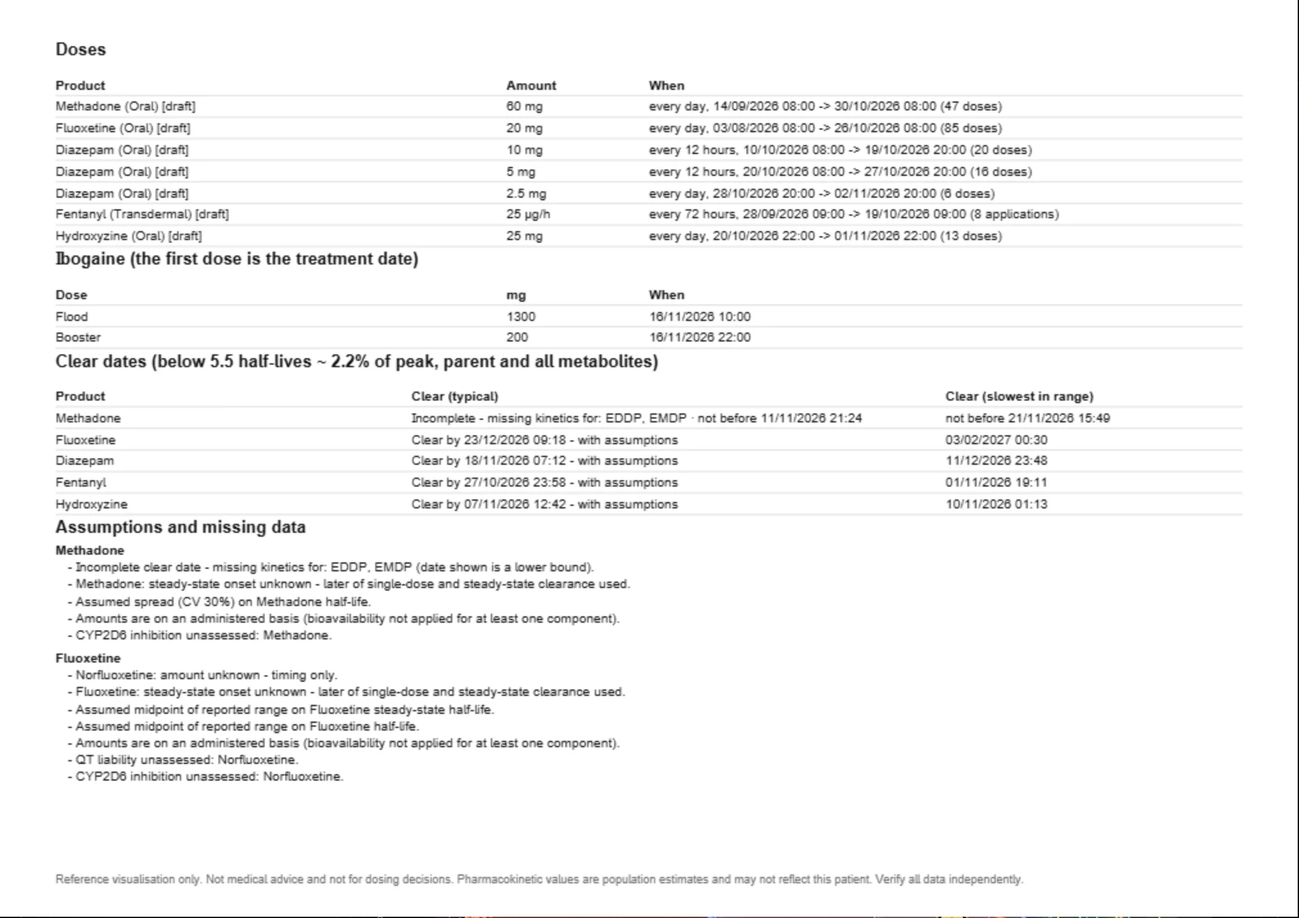
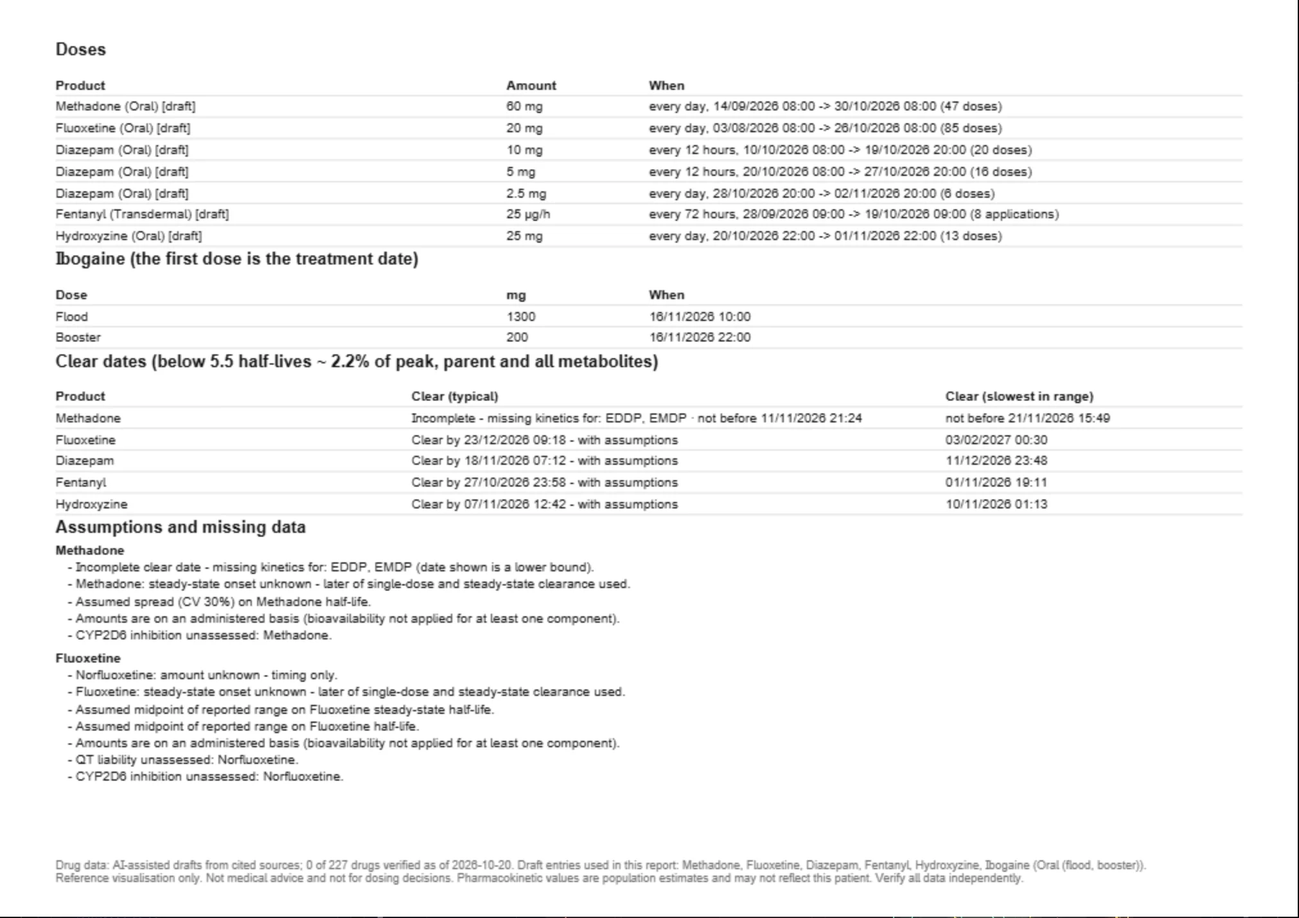
Data-status wording: AI-assisted drafting and hand verification with live counts (help, README, app tooltips and warning); help: Drug Library section and screenshots, header-controls callouts, ibogaine dialog callouts

Changed region(s): [[0.0312, 0.9231, 0.8724, 0.9846]]

diff --git a/help.html b/help.html
@@ -1,4 +1,4 @@
-<!doctype html>
+<!doctype html>
 <html lang="en">
   <head>
     <meta charset="UTF-8" />
@@ -45,7 +45,12 @@
               </ol>
             </li>
             <li><a href="#model">How the model works</a></li>
-            <li><a href="#library">The drug library and its sources</a></li>
+            <li>
+              <a href="#library">The drug library and its sources</a>
+              <ol>
+                <li><a href="#library-view">Browsing the library</a></li>
+              </ol>
+            </li>
             <li><a href="#faq">FAQ</a></li>
             <li><a href="#feedback">Requests and feedback</a></li>
             <li><a href="#about">About</a></li>
@@ -60,6 +65,7 @@
           <h2>What ClearDate is</h2>
           <p>ClearDate is a free reference tool for iboga and ibogaine providers. It supports patient intake and treatment planning.</p>
           <p>You enter a patient's recent medications and substances. ClearDate plots how much of each drug and its metabolites is likely to remain in the body over time, relative to the planned ibogaine date. Underneath the main chart it shows when CYP2D6 is likely to be inhibited, which compounds carry QT liability, and which effects may linger after a drug has cleared.</p>
+          <p>The drug data was drafted with the assistance of AI language models from published, cited sources, and every value records its source. Entries are verified by hand against those sources; until then they are marked <strong>Draft</strong>. You can browse every entry, with its sources, in the <a href="#library-view">Drug Library</a>. See <a href="#library">The drug library and its sources</a>.</p>
           <figure class="shot" data-img="chart-overview.webp">
             <div class="shot-frame"><img src="help/img/chart-overview.webp" alt="The ClearDate window with a fictional patient loaded: the Doses panel on the left, a legend of drugs grouped by category across the top, clearance curves for methadone, fluoxetine, diazepam, a fentanyl patch and hydroxyzine in the main chart, the gold ibogaine treatment marker, the CYP2D6, QT and lingering-effects tracks underneath, and warnings at the bottom." /></div>
             <figcaption>The main screen with a fictional patient. Doses are entered on the left; the chart, tracks and warnings are on the right.</figcaption>
@@ -143,13 +149,14 @@
             <li>
               <strong>Export a record.</strong> <em>PDF</em> creates a report with the chart, the doses, the clear dates, every assumption and the warnings. <em>PNG</em> saves an image of the chart.
               <figure class="shot inline" data-img="header-controls.webp">
-                <div class="shot-frame"><img src="help/img/header-controls.webp" alt="The buttons at the top right of ClearDate: Ibogaine, Reset view, PNG, PDF, Save file, Load file and Help." /></div>
+                <div class="shot-frame"><img src="help/img/header-controls.webp" alt="The buttons at the top right of ClearDate: Ibogaine, Reset view, PNG, PDF, Save file, Load file, Library and Help." /></div>
                 <figcaption>The controls at the top of the app.</figcaption>
                 <ol class="callout-list">
                   <li>Plan the ibogaine treatment.</li>
                   <li>Reset the chart's zoom.</li>
                   <li>Export the chart as an image, or a full PDF report.</li>
                   <li>Save the patient to a file, or open a saved file.</li>
+                  <li>Browse the <a href="#library-view">Drug Library</a>.</li>
                   <li>This help page.</li>
                 </ol>
               </figure>
@@ -202,8 +209,8 @@
             <table class="data-table">
               <thead><tr><th scope="col">Badge</th><th scope="col">Meaning</th></tr></thead>
               <tbody>
-                <tr><td><span class="badge badge-warn">unverified</span></td><td>Library data that has not been fully reviewed yet.</td></tr>
-                <tr><td><span class="badge badge-warn">draft</span></td><td>The entry still contains values marked as drafts.</td></tr>
+                <tr><td><span class="badge badge-warn">unverified</span></td><td>Library data that has not yet been verified by hand against its sources.</td></tr>
+                <tr><td><span class="badge badge-warn">draft</span></td><td>The entry still has AI-assisted values from model recall or estimates that haven't been checked against a source.</td></tr>
                 <tr><td><span class="badge badge-muted">no data yet</span></td><td>The drug is in the library but has no half-life yet. It is listed so you know it's coming, but can't be selected.</td></tr>
                 <tr><td><span class="badge badge-warn">incomplete</span></td><td>The drug can be plotted, but some compound it forms has no kinetics yet. Its clear date will be a lower bound.</td></tr>
                 <tr><td><span class="badge badge-user">user-entered</span></td><td>A custom drug you entered yourself. It is not part of the shared library.</td></tr>
@@ -304,16 +311,16 @@
               <li><em>+ Add dose</em> adds the next dose after the last one: a flood 3 hours after a test dose, a booster 12 hours after a flood or booster, the next microdose a day later.</li>
               <li><strong>mg/kg</strong> is shown in gold under each amount when the patient's weight is set.</li>
               <li><strong>Projected ibogaine and noribogaine</strong> are plotted forward from the doses once the library has their kinetics. Until then only the date markers are shown, and a note says so. If CYP2D6 is likely inhibited at the treatment time, the projection uses the poor-metaboliser values and is labelled “poor-metaboliser adjusted”. If the library has no poor-metaboliser values for ibogaine, it is labelled “poor-metaboliser effect not quantified” instead (see <a href="#cyp2d6">CYP2D6 track</a>).</li>
-              <li><em>Remove all ibogaine doses</em> clears the treatment.</li>
+              <li>The sidebar lists every ibogaine dose in time order. <em>Remove all ibogaine doses</em> clears the treatment.</li>
             </ul>
             <figure class="shot narrow" data-img="ibogaine-form.webp">
               <div class="shot-frame"><img src="help/img/ibogaine-form.webp" alt="The Ibogaine dialog: an explanation, a 1300 mg flood with its mg/kg value and time, a 200 mg booster 12 hours later, each with a Repeat checkbox, an Add dose button, and Remove all ibogaine doses and Save buttons." /></div>
               <figcaption>The Ibogaine dialog.</figcaption>
               <ol class="callout-list">
-                <li>Flood dose in mg.</li>
+                <li>Dose type (test dose, flood, booster, microdose or other).</li>
                 <li>mg/kg, from the patient's weight.</li>
-                <li>Booster time.</li>
-                <li>Add another booster.</li>
+                <li>Repeat a dose, for example for microdosing.</li>
+                <li>Add another dose.</li>
               </ol>
             </figure>
           </section>
@@ -441,7 +448,7 @@
             <p>Below the chart, <strong>Receptor overlap at the ibogaine date</strong> lists receptors and transporters hit by compounds from two or more different products still present at the treatment date, with each compound's action.</p>
             <p>Both are qualitative reminders taken from the literature, not modelled effects.</p>
             <figure class="shot" data-img="warnings.webp">
-              <div class="shot-frame"><img src="help/img/warnings.webp" alt="The warnings area under the chart, listing amber warnings for incomplete clear dates and unassessed CYP2D6 inhibition, and blue information notes about unverified data." /></div>
+              <div class="shot-frame"><img src="help/img/warnings.webp" alt="The warnings area under the chart, listing amber warnings for incomplete clear dates and unassessed CYP2D6 inhibition, and blue information notes about draft library data." /></div>
               <figcaption>Warnings under the chart. Red is a safety warning, amber needs attention, blue is information about the data.</figcaption>
             </figure>
           </section>
@@ -516,7 +523,7 @@
             <ul>
               <li><strong>Save file</strong> downloads the whole session (patient, doses, ibogaine plan, custom drugs and settings) as <code>name-date.cleardate.json</code>.</li>
               <li><strong>Load file</strong> opens a saved file and replaces what's on screen. If a custom drug in the file has the same ID as a library drug, it is renamed and you're told.</li>
-              <li><strong>PDF</strong> creates a landscape A4 report in light colours. Page 1 has the clinic name, patient details, baseline QTc, CYP2D6 phenotype and the chart as currently zoomed. The following pages list the doses, the planned ibogaine, the clear dates (typical and slowest in the range), the <strong>Assumptions and missing data</strong> for each product, and the warnings. The disclaimer is printed at the foot of every page.</li>
+              <li><strong>PDF</strong> creates a landscape A4 report in light colours. Page 1 has the clinic name, patient details, baseline QTc, CYP2D6 phenotype and the chart as currently zoomed. The following pages list the doses, the planned ibogaine, the clear dates (typical and slowest in the range), the <strong>Assumptions and missing data</strong> for each product, and the warnings. The foot of every page has the disclaimer and a data line: how many library drugs are verified, and which drugs in this report are still drafts.</li>
               <li><strong>PNG</strong> saves an image with the same header, the chart and up to eight warnings.</li>
             </ul>
             <p><strong>Assumptions and missing data</strong> lists, per product: incomplete clear dates and the missing compounds; every assumption (assumed spreads and range midpoints, assumed phenotype effects, steady-state switches, conservative choices for partial data); metabolites excluded as inactive; branches not formed for the patient's phenotype; formation-limited conjugates, which can accumulate in renal impairment; amounts given on an administered basis; and whether QT, CYP2D6 or receptor data is unassessed.</p>
@@ -620,13 +627,15 @@
         <!-- 7 -->
         <section id="library">
           <h2>The drug library and its sources</h2>
-          <p>Drug values are entered by hand from published sources, with the citations recorded in the library. In a <strong>verified</strong> entry, every section has been reviewed against those sources. Entries still being reviewed are marked <span class="badge badge-warn">unverified</span> or <span class="badge badge-warn">draft</span> wherever they appear, including the PDF.</p>
+          <p data-fig="statement">Drug data was drafted with the assistance of AI language models from published, cited sources (FDA labels, Baselt, CredibleMeds, the Flockhart table, CPIC, the IUPHAR/BPS Guide to Pharmacology and the primary literature). Every value records its source. Entries are reviewed and verified by hand against those sources; entries marked Draft have not yet been verified. The library will keep growing.</p>
+          <p>In a <strong>verified</strong> entry, every section has been checked by hand against its sources. Entries not yet verified are marked <span class="badge badge-warn">draft</span> or <span class="badge badge-warn">unverified</span> in the drug search, <strong>Draft</strong> in the <a href="#library-view">Drug Library</a>, and are named in the data line at the foot of the PDF.</p>
+          <p class="live" hidden>Verification so far: <strong data-fig="drugsVerified"></strong> of <strong data-fig="drugs"></strong> drugs verified, <strong data-fig="drugsDraft"></strong> drafts, and <strong data-fig="drugsNoData"></strong> with no data yet. <strong data-fig="drugsIncomplete"></strong> drugs have incomplete data (a compound they form has no kinetics yet).</p>
           <p>Primary sources:</p>
           <ul class="sources">
             <li>FDA prescribing information via <a href="https://dailymed.nlm.nih.gov/">DailyMed</a>, and EU and UK product information (<a href="https://www.ema.europa.eu/">EMA</a>, <a href="https://www.medicines.org.uk/emc">electronic medicines compendium</a>).</li>
             <li>Baselt, <em>Disposition of Toxic Drugs and Chemicals in Man</em>.</li>
             <li>The <a href="https://drug-interactions.medicine.iu.edu/">Flockhart CYP table</a> and the <a href="https://www.fda.gov/drugs/drug-interactions-labeling/healthcare-professionals-fdas-examples-drugs-interact-cyp-enzymes-and-transporter-systems">FDA drug-interaction tables</a>.</li>
-            <li><a href="https://crediblemeds.org/">CredibleMeds</a> for QT risk tiers, entered by hand with a citation and used under their terms.</li>
+            <li><a href="https://crediblemeds.org/">CredibleMeds</a> for QT risk tiers, recorded with a citation and used under their terms.</li>
             <li><a href="https://cpicpgx.org/">CPIC</a> and <a href="https://www.clinpgx.org/">ClinPGx</a> for pharmacogenomics.</li>
             <li>The <a href="https://www.guidetopharmacology.org/">IUPHAR/BPS Guide to Pharmacology</a> and the <a href="https://pdsp.unc.edu/databases/kidb.php">PDSP K<sub>i</sub> Database</a> for receptor targets.</li>
             <li>The primary pharmacokinetic literature via <a href="https://pubmed.ncbi.nlm.nih.gov/">PubMed</a>.</li>
@@ -637,6 +646,57 @@
           <p class="live" hidden>The library currently holds <strong data-fig="drugs"></strong> drugs as <strong data-fig="products"></strong> products (each route and formulation is a product), made up of <strong data-fig="compounds"></strong> compounds including metabolites. <strong data-fig="verifiedProducts"></strong> products and <strong data-fig="verifiedCompounds"></strong> compounds are verified so far. Last updated <strong data-fig="updated"></strong>.</p>
           <p>Categories covered: <span data-fig="categories">opioids and opioid use disorder treatments; benzodiazepines and sedatives; antidepressants; antipsychotics; mood stabilisers and anticonvulsants; stimulants; psychedelics, entactogens and dissociatives; cardiovascular drugs; antimicrobials, antiemetics and other interactors</span>.</p>
           <p><strong>The library will keep growing.</strong> Requests for new drugs, corrections and source suggestions are welcome: see <a href="#feedback">Requests and feedback</a>.</p>
+
+          <h3 id="library-view">Browsing the library</h3>
+          <p>Press <em>Library</em> at the top of the app to open the Drug Library: a read-only view of every drug, its metabolites and its sources. Nothing in it changes your patient, and closing it (× or Esc) returns you to the chart exactly as it was.</p>
+          <ul>
+            <li>Each drug has its own address (for example <code>#library/fluoxetine</code>), so you can bookmark or share an entry. The browser's back and forward buttons move between the entries you've opened.</li>
+            <li>Keyboard: <kbd>/</kbd> jumps to the search box, <kbd>↑</kbd> <kbd>↓</kbd> move through the list, <kbd>Enter</kbd> opens a drug.</li>
+            <li>On a narrow screen the list comes first; opening a drug replaces it, with <em>← All drugs</em> to go back.</li>
+          </ul>
+          <figure class="shot" data-img="library-overview.webp">
+            <div class="shot-frame"><img src="help/img/library-overview.webp" alt="The Drug Library: a search box, category and status filter chips and a Show metabolites checkbox above a list of drugs grouped by category, each with a coloured status dot; on the right, a summary of the library with the data statement and counts of drugs, compounds, products, verified, draft, incomplete and no-data entries." /></div>
+            <figcaption>The Drug Library. The list is on the left; with no drug selected, the right side summarises the library.</figcaption>
+            <ol class="callout-list">
+              <li>Search by name, brand or alias, using the same search as the Doses panel.</li>
+              <li>Filter by category. You can select more than one.</li>
+              <li>Filter by status: Verified, Draft, Incomplete data, No data yet.</li>
+              <li>Also list metabolites, which have entries of their own.</li>
+              <li>Status dot: green for verified (a green ring for verified with incomplete data), amber for draft, an empty circle for no data yet.</li>
+              <li>Live counts from the library.</li>
+            </ol>
+          </figure>
+          <p>A drug's entry shows, in order: its status; <strong>at a glance</strong>, the clear time after a single dose; its products; the kinetics of the drug and each metabolite; the metabolite tree; safety (CYP2D6, QT, lingering effects, nonlinear kinetics); receptors; and the sources. Unknown values are shown as <em>unknown</em> or <em>unassessed</em>, never left blank.</p>
+          <figure class="shot" data-img="library-entry.webp">
+            <div class="shot-frame"><img src="help/img/library-entry.webp" alt="The top of the fluoxetine entry: its name and aliases, the Draft status, an at-a-glance sentence giving the typical clear time after a single dose with its range, product cards for the oral and weekly delayed-release products, and the fluoxetine half-life shown as a range bar." /></div>
+            <figcaption>The top of a drug's entry.</figcaption>
+            <ol class="callout-list">
+              <li>Status: Verified (with its date), Verified — incomplete data, Draft, or No data yet.</li>
+              <li>At a glance: the same simulation as the chart, for one dose of the main product in a normal CYP2D6 metaboliser, using your current clear threshold. Incomplete drugs say “not before” and name the compound without kinetics.</li>
+              <li>Each product: route, formulation, input model and typical dose. “Not set” or “not applied” means the library has no value.</li>
+              <li>Half-life range: the band runs from the fastest to the slowest value, the gold tick is the typical value, and the label says how the range was derived. A striped band is an assumed spread around a single published value.</li>
+            </ol>
+          </figure>
+          <figure class="shot" data-img="library-tree.webp">
+            <div class="shot-frame"><img src="help/img/library-tree.webp" alt="The metabolite tree for codeine: codeine on the left, outlined in gold, linked to its metabolites, each box showing whether it is active and its half-life, with the fraction formed on each link." /></div>
+            <figcaption>The metabolite tree.</figcaption>
+            <ol class="callout-list">
+              <li>The drug itself, outlined in gold.</li>
+              <li>A metabolite. Select it to open its own entry. Blue outline: active; grey: inactive; dashed amber: relevance unknown.</li>
+              <li>The fraction formed, and any CYP2D6 phenotype multipliers, on each link.</li>
+            </ol>
+          </figure>
+          <figure class="shot" data-img="library-sources.webp">
+            <div class="shot-frame"><img src="help/img/library-sources.webp" alt="The sources of one entry: each section with its cited sources as links and a small coloured provenance dot, an open Show evidence notes panel with the raw notes, and a legend explaining the dots." /></div>
+            <figcaption>Sources, with the evidence notes open.</figcaption>
+            <ol class="callout-list">
+              <li>The sources cited for each section, as links where there is one.</li>
+              <li>Provenance (draft entries only): whether the value was checked against its source, came from model recall, is an estimate, or no data was found. Verified entries don't show these.</li>
+              <li><em>Show evidence notes</em> reveals the full notes, word for word.</li>
+              <li>What each dot means.</li>
+            </ol>
+          </figure>
+          <p>At the bottom of each entry, <em>Report a correction</em> opens a pre-filled issue on the project's GitHub page (you'll need a GitHub account). Choose the section first. You can also email a correction: see <a href="#feedback">Requests and feedback</a>.</p>
         </section>
 
         <!-- 8 -->
@@ -663,8 +723,12 @@
             <dd>The entry has been fully reviewed, and the missing kinetics are confirmed as unpublished. Its clear dates are lower bounds, and a library update won't change that until new research is published.</dd>
             <dt>Will closing the browser lose my patient?</dt>
             <dd>No: the session is autosaved in this browser and is there next time. It is lost only if you use Clear all data or clear the browser's site data. Save a file for a permanent copy.</dd>
+            <dt>Where does the drug data come from?</dt>
+            <dd>It was drafted with the assistance of AI language models from published, cited sources, and every value records its source. Entries are verified by hand against those sources; until then they are marked Draft. Open any drug in the <a href="#library-view">Drug Library</a> to see its sources. See <a href="#library">The drug library and its sources</a>.</dd>
+            <dt>Can I trust a Draft entry?</dt>
+            <dd>Treat it as unchecked. Its values have sources, but nobody has yet confirmed them against those sources. Each section in the Library shows whether it was checked, came from model recall, or is an estimate. Verify anything that matters to your decision.</dd>
             <dt>How do I correct an entry?</dt>
-            <dd>Email the drug, the value you think is wrong and a source. See <a href="#feedback">Requests and feedback</a>.</dd>
+            <dd>Open the drug in the <a href="#library-view">Drug Library</a> and use <em>Report a correction</em> at the bottom (needs a GitHub account), or email the drug, the value you think is wrong and a source. See <a href="#feedback">Requests and feedback</a>.</dd>
           </dl>
         </section>
 

diff --git a/tools/screenshots.ts b/tools/screenshots.ts
@@ -170,13 +170,16 @@ async function main() {
 
     const topbar = page.locator('.topbar');
     await shot(page, 'saved-indicator', pad(union(await box(page.locator('.wordmark')), await box(page.locator('.saved'))), 12));
-    const headerButtons = union(await box(page.locator('.topbar .btn-gold')), await box(page.locator('.topbar a.btn')));
+    const libraryBtn = topbar.getByRole('link', { name: 'Library' });
+    const helpBtn = topbar.getByRole('link', { name: 'Help' });
+    const headerButtons = union(await box(page.locator('.topbar .btn-gold')), await box(helpBtn));
     await shot(page, 'header-controls', pad(headerButtons, 10), [
       corner(await box(page.locator('.topbar .btn-gold'))),
       corner(await box(topbar.getByRole('button', { name: 'Reset view' }))),
       corner(union(await box(topbar.getByRole('button', { name: 'PNG' })), await box(topbar.getByRole('button', { name: 'PDF' })))),
       corner(union(await box(topbar.getByRole('button', { name: 'Save file' })), await box(topbar.getByRole('button', { name: 'Load file' })))),
-      corner(await box(page.locator('.topbar a.btn'))),
+      corner(await box(libraryBtn)),
+      corner(await box(helpBtn)),
     ]);
 
     console.log('Chart');
@@ -354,6 +357,67 @@ async function main() {
     await shot(page, 'wizard-metabolites', pad(await box(modal), 2));
     await modal.locator('.modal-head .icon-btn').click();
     await settle(page, 200);
+
+    console.log('Drug library');
+    await libraryBtn.click();
+    const lib = page.locator('.lib-overlay');
+    await lib.waitFor();
+    await settle(page, 400);
+    await shot(page, 'library-overview', null, [
+      corner(await box(lib.locator('.lib-search'))),
+      corner(await box(lib.locator('.lib-chips').first())),
+      corner(await box(lib.locator('.lib-chips').nth(1))),
+      corner(await box(lib.locator('.lib-toggle'))),
+      left(await box(lib.locator('a.lib-row .lib-st').first()), -2),
+      corner(await box(lib.locator('.lib-stats').first())),
+    ]);
+
+    await lib.locator('.lib-search').fill('fluoxetine');
+    await settle(page, 250);
+    await lib.locator('.lib-search').press('Enter');
+    await page.waitForFunction(() => location.hash === '#library/fluoxetine');
+    await settle(page, 300);
+    const detail = lib.locator('.lib-detail');
+    const libSection = (title: string) => detail.locator('.lib-sec').filter({ has: page.locator('h3', { hasText: new RegExp(`^${title}$`) }) });
+    const kinetics = libSection('Kinetics');
+    await shot(page, 'library-entry', union(await box(detail.locator('.lib-entry-head')), await box(kinetics.locator('.lib-card').first())), [
+      corner(await box(detail.locator('.lib-entry-head .lib-status'))),
+      await textEnd(detail.locator('.lib-glance')),
+      corner(await box(detail.locator('.lib-cards .lib-card').first())),
+      corner(await box(kinetics.locator('.lib-bar').first())),
+    ]);
+
+    await lib.locator('.lib-search').fill('codeine');
+    await settle(page, 250);
+    await lib.locator('.lib-search').press('Enter');
+    await page.waitForFunction(() => location.hash === '#library/codeine');
+    await settle(page, 300);
+    const treeSec = libSection('Metabolites');
+    await treeSec.scrollIntoViewIfNeeded();
+    await settle(page, 200);
+    await shot(page, 'library-tree', pad(await box(treeSec), 6), [
+      corner(await box(treeSec.locator('.lib-node.self rect'))),
+      corner(await box(treeSec.locator('.lib-node').nth(1).locator('rect'))),
+      await textEnd(treeSec.locator('.lib-edge-label').first()),
+    ]);
+
+    const srcSec = libSection('Sources');
+    const firstSrc = srcSec.locator('details.lib-src[open]').nth(1);
+    await firstSrc.locator('.lib-raw summary').click();
+    await page.setViewportSize({ width: 1440, height: 1700 });
+    await settle(page, 200);
+    await firstSrc.evaluate((el) => el.scrollIntoView({ block: 'start' }));
+    await settle(page, 200);
+    await shot(page, 'library-sources', pad(union(await box(firstSrc), await box(srcSec.locator('.lib-legend'))), 6), [
+      corner(await box(firstSrc.locator('.lib-cites').first())),
+      left(await box(firstSrc.locator('.lib-prov').first()), -2),
+      corner(await box(firstSrc.locator('.lib-raw summary'))),
+      corner(await box(srcSec.locator('.lib-legend'))),
+    ]);
+    await page.setViewportSize({ width: 1440, height: 900 });
+    await page.keyboard.press('Escape');
+    await page.waitForFunction(() => !document.querySelector('.lib-overlay'));
+    await settle(page, 300);
 
     console.log('Exports');
     const [pdf] = await Promise.all([page.waitForEvent('download'), topbar.getByRole('button', { name: 'PDF' }).click()]);

diff --git a/src/help/help.ts b/src/help/help.ts
@@ -3,6 +3,7 @@
 
 import '@fontsource-variable/inter';
 import './help.css';
+import { dataStatement, libraryStats } from '../library/status';
 import type { Library } from '../types';
 
 const base = import.meta.env.BASE_URL;
@@ -29,6 +30,12 @@ async function liveFigures() {
     setFig('compounds', n(lib.compounds.length));
     setFig('verifiedProducts', n(lib.products.filter((p) => p.verified).length));
     setFig('verifiedCompounds', n(lib.compounds.filter((c) => c.verified).length));
+    const stats = libraryStats(lib);
+    setFig('drugsVerified', n(stats.verified));
+    setFig('drugsDraft', n(stats.draft));
+    setFig('drugsIncomplete', n(stats.incomplete));
+    setFig('drugsNoData', n(stats.noData));
+    setFig('statement', dataStatement(stats));
     setFig('schema', String(lib.schemaVersion));
     setFig('updated', latest ? new Date(`${latest}T12:00:00`).toLocaleDateString('en-GB', { day: 'numeric', month: 'long', year: 'numeric' }) : 'unknown');
     if (lib.categories.length)

diff --git a/src/ui/picker.ts b/src/ui/picker.ts
@@ -13,7 +13,9 @@ export function productBadges(p: Product, status: DataStatus, compoundsVerified 
     return [badge('verified — incomplete data', 'warn', 'Fully reviewed, but kinetics for at least one compound are confirmed unknown — the clear date is a lower bound.')];
   return [
     status === 'no-data' ? badge('no data yet', 'muted') : status === 'incomplete' ? badge('incomplete', 'warn') : null,
-    p.userEntered ? badge('user-entered', 'user') : isDraft(p) ? badge('draft', 'warn') : !verified ? badge('unverified', 'warn') : null,
+    p.userEntered ? badge('user-entered', 'user')
+      : isDraft(p) ? badge('draft', 'warn', 'AI-assisted draft: some values are from model recall or estimates, not yet checked against a source.')
+      : !verified ? badge('unverified', 'warn', 'Not yet verified by hand against its sources.') : null,
   ];
 }
 

diff --git a/src/help/help.css b/src/help/help.css
@@ -44,6 +44,7 @@ li { margin: 3px 0; }
 a { color: var(--accent); text-underline-offset: 2px; }
 a:hover { color: #a9bcff; }
 code { font-family: ui-monospace, SFMono-Regular, Consolas, monospace; font-size: 0.88em; background: rgba(255, 255, 255, 0.06); padding: 1px 5px; border-radius: 5px; }
+kbd { font-family: inherit; font-size: 0.85em; padding: 1px 6px; border-radius: 5px; border: 1px solid rgba(255, 255, 255, 0.18); border-bottom-width: 2px; }
 strong { color: #f2f4fa; }
 .note { color: var(--muted); font-size: 14px; }
 

diff --git a/README.md b/README.md
@@ -4,6 +4,8 @@ Client-side drug clearance visualiser for ibogaine-clinic intake. Reference use 
 
 **Using ClearDate:** see the [help page](help.html) (`/help.html` on the deployed site, or the *Help* button in the app). This README is for developers.
 
+**The drug data.** Drug data was drafted with the assistance of AI language models from published, cited sources (FDA labels, Baselt, CredibleMeds, the Flockhart table, CPIC, the IUPHAR/BPS Guide to Pharmacology and the primary literature). Every value records its source. Entries are reviewed and verified by hand against those sources; entries marked **Draft** have not yet been verified. The library will keep growing. `npm run validate` prints the current verification progress; in the app, the *Library* button (`#library`) shows every entry with its status and sources, and the help page and PDF export show live verified counts.
+
 ## What's in this starter
 
 | Path | Purpose |
